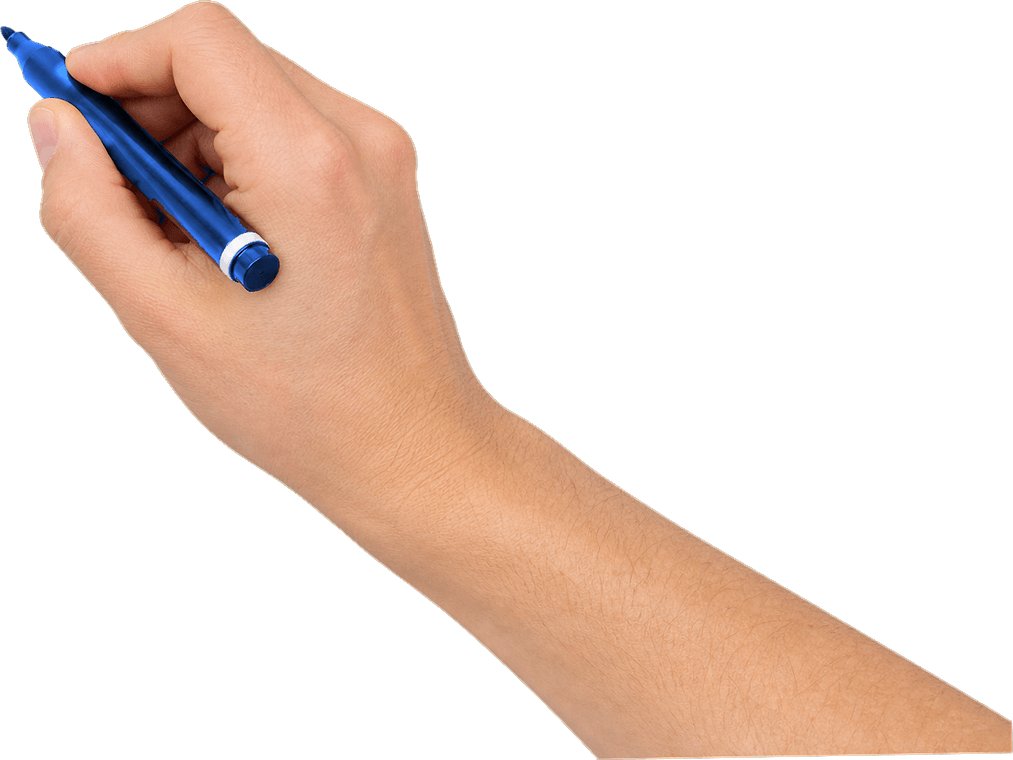
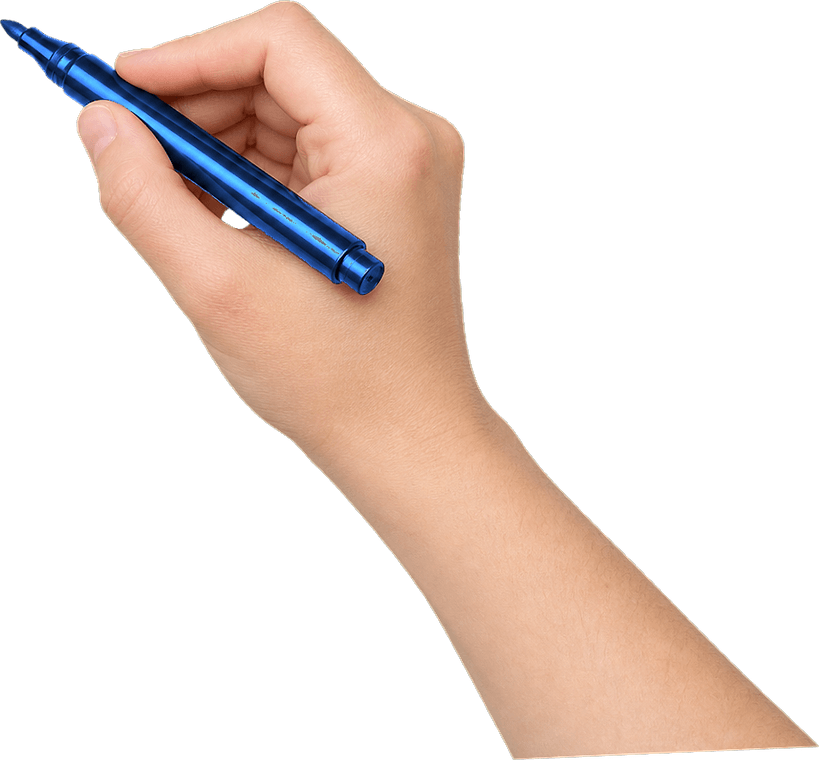
أصول اليد: ثلاث أيادٍ للماركر (افتراضية/فاتحة/بأكمام) بُعد handTone
- لوحتان مصوّرتان جديدتان: marker-pale (بشرة فاتحة) و marker-sleeve (يد بأكمام
  داكنة)، تُبنيان بنفس خط الأنابيب (chroma key → trim → دوران قياسي → قياس نقطة
  العمل) فتبقى الأصول متبادلة تمامًا.
- handTone في WhiteboardSpec + handKeyFor/handAssetFor في المانيفست المُولَّد:
  التوليفات بلا لوحة ترجع إلى لوحة الأداة، والممحاة لا تُستبدل أبدًا.
- الإطار صار يحمل المفتاح المحلول (HandFrame.asset) و plateFor يُرجعه للطبقة —
  لا تخمين في العرض.
- قائمة اختيار ثانية في AnimationDock + حفظ/تحميل للخيار مع رفض القيم المجهولة.
- إصلاح أداة المراجعة: ارتفاع ورقة الأصول كان مثبَّتًا على صفّين فيسقط أي أصل جديد.
- الاختبارات 744 (كانت 719): §14 للتنويعات والرجوع إلى اللوحة الأصلية وround-trip.

diff --git a/src/animation/hand.ts b/src/animation/hand.ts
@@ -23,9 +23,10 @@
  */
 
 import type { ElementBaseInfo } from './engine'
-import { handAsset, handDrawHeight } from './handAssets'
+import { handAsset, handDrawHeight, handKeyFor } from './handAssets'
 import { INK_LEAD, NIB_AHEAD_PX } from './types'
 import { glyphInkFraction } from './glyphClusters'
+import type { HandAssetKey } from './handAssets'
 import type { AnimSpec, WhiteboardHandSide, WhiteboardHandStyle } from './types'
 
 /** Which asset the overlay should draw. */
@@ -40,10 +41,21 @@ export interface HandFrame {
   /** 1 = the asset's authored size; smaller when the ink is smaller than the rig was designed for */
   scale: number
   opacity: number
-  style: WhiteboardHandStyle
+  /** the exact plate to draw: tool × skin tone (resolved once, in computeHandFrame) */
+  asset: HandAssetKey
   side: WhiteboardHandSide
   pressing: boolean
   pose: HandPose
+}
+
+/**
+ * Which plate the overlay must draw for a frame. The tool × skin tone is already resolved on the
+ * frame; the pose overrides it (the flat palm is always the palm plate) and an eraser always wins.
+ */
+export function plateFor(f: HandFrame): HandAssetKey {
+  if (f.asset === 'eraser') return 'eraser'
+  if (f.pose === 'palm') return 'palm'
+  return f.asset
 }
 
 /** The height the hand rig is authored at (design px) — the reference for `scale`. */
@@ -92,7 +104,7 @@ const DEFAULT_FRAME: HandFrame = {
   angle: 0,
   scale: 1,
   opacity: 0,
-  style: 'marker-dark',
+  asset: 'marker-dark',
   side: 'right',
   pressing: false,
   pose: 'pen',
@@ -171,6 +183,8 @@ export function computeHandFrame(spec: AnimSpec, el: ElementBaseInfo, localT: nu
   if (!wb || wb.effect === 'stroke') return null
 
   const style: WhiteboardHandStyle = wb.handStyle ?? (wb.effect === 'erase' ? 'eraser' : 'marker-dark')
+  // resolve the plate once (tool × skin tone) and let every pose carry it
+  const asset = handKeyFor(style, wb.handTone ?? 'default')
   const side: WhiteboardHandSide = wb.handSide ?? 'right'
   const duration = Math.max(200, spec.duration)
   const isRight = side === 'right'
@@ -192,7 +206,7 @@ export function computeHandFrame(spec: AnimSpec, el: ElementBaseInfo, localT: nu
     const fromY = el.y + el.h + 150
     const x = start.x + (fromX - start.x) * (1 - eased)
     const y = start.y + (fromY - start.y) * (1 - eased)
-    return frame({ x, y, angle: (isRight ? -6 : 6) * (1 - eased), opacity: Math.pow(eased, 0.8), style, side, pressing: false, pose })
+    return frame({ x, y, angle: (isRight ? -6 : 6) * (1 - eased), opacity: Math.pow(eased, 0.8), asset, side, pressing: false, pose })
   }
 
   /* --------------------------------------------------------------- active */
@@ -202,10 +216,10 @@ export function computeHandFrame(spec: AnimSpec, el: ElementBaseInfo, localT: nu
     if (wb.effect === 'draw') {
       if (spec.text) {
         if (ctx.units?.length && ctx.stream) {
-          return streamFrame(style, side, pose, localT, ctx.units, ctx.stream, ctx.rtl ?? el.rtl === true)
+          return streamFrame(asset, side, pose, localT, ctx.units, ctx.stream, ctx.rtl ?? el.rtl === true)
         }
         const units = ctx.units?.length ? ctx.units : estimatedUnits(spec, el, ctx.stagger)
-        return textFrame(spec, style, side, pose, localT, units, ctx.stagger, ctx.rtl ?? el.rtl)
+        return textFrame(spec, asset, side, pose, localT, units, ctx.stagger, ctx.rtl ?? el.rtl)
       }
 
       // The ink edge is the element's own reveal; when the engine did not hand us one
@@ -232,7 +246,7 @@ export function computeHandFrame(spec: AnimSpec, el: ElementBaseInfo, localT: nu
       const x = el.x + padX + xNorm * wSpan + tremor(t, 0.4)
       const y = lineY - lift + tremor(t, 2.1) + (drawing ? Math.sin(inBand * Math.PI) * 1.5 : 0)
       const angle = wristTilt(speedX, 0) + tremor(t, 5.3) * 0.6
-      return frame({ x, y, angle, opacity: 1, style, side, pressing: drawing, pose })
+      return frame({ x, y, angle, opacity: 1, asset, side, pressing: drawing, pose })
     }
 
     if (wb.effect === 'push') {
@@ -246,7 +260,7 @@ export function computeHandFrame(spec: AnimSpec, el: ElementBaseInfo, localT: nu
           y: palmRest.y + (1 - a) * 40,
           angle: (isRight ? 8 : -8) * (1 - a),
           opacity: Math.pow(a, 0.7),
-          style,
+          asset,
           side,
           pressing: false,
           pose,
@@ -261,7 +275,7 @@ export function computeHandFrame(spec: AnimSpec, el: ElementBaseInfo, localT: nu
           y: palmRest.y + Math.sin(q * Math.PI) * 4 + tremor(t, 3.3),
           angle: (isRight ? -4 : 4) * q + tremor(t, 7.1) * 0.5,
           opacity: 1,
-          style,
+          asset,
           side,
           pressing: true,
           pose,
@@ -273,7 +287,7 @@ export function computeHandFrame(spec: AnimSpec, el: ElementBaseInfo, localT: nu
         y: palmRest.y + f * 26,
         angle: (isRight ? -6 : 6) * (1 - f),
         opacity: 1 - Math.pow(f, 2) * 0.55,
-        style,
+        asset,
         side,
         pressing: f < 0.4,
         pose,
@@ -293,7 +307,7 @@ export function computeHandFrame(spec: AnimSpec, el: ElementBaseInfo, localT: nu
         y: lineY + tremor(t, 4.4) * 1.4,
         angle: scrub * 4 + tremor(t, 6.6) * 0.5,
         opacity: 1,
-        style: 'eraser',
+        asset: 'eraser',
         side,
         pressing: true,
         pose: 'eraser',
@@ -311,7 +325,7 @@ export function computeHandFrame(spec: AnimSpec, el: ElementBaseInfo, localT: nu
       y: l.y + out * 170 - Math.sin(clamp(e * 3, 0, 1) * Math.PI * 0.5) * 18,
       angle: (isRight ? -8 : 8) * (1 - out * 0.4),
       opacity: 1 - Math.pow(clamp((e - 0.55) / 0.45, 0, 1), 2),
-      style,
+      asset,
       side,
       pressing: false,
       pose,
@@ -333,7 +347,7 @@ export function computeHandFrame(spec: AnimSpec, el: ElementBaseInfo, localT: nu
  * Writing and travelling share the same clock, so the nib rides the ink edge the whole way.
  */
 function streamFrame(
-  style: WhiteboardHandStyle,
+  asset: HandAssetKey,
   side: WhiteboardHandSide,
   pose: HandPose,
   localT: number,
@@ -407,7 +421,7 @@ function streamFrame(
     angle: wristTilt(dir * 0.9, 0) + tremor(t, 8.2) * 0.7,
     scale: scaleForText(units[i]?.h ?? units[units.length - 1]?.h),
     opacity: 1,
-    style,
+    asset,
     side,
     pressing: !travel,
     pose,
@@ -416,7 +430,7 @@ function streamFrame(
 
 function textFrame(
   spec: AnimSpec,
-  style: WhiteboardHandStyle,
+  asset: HandAssetKey,
   side: WhiteboardHandSide,
   pose: HandPose,
   localT: number,
@@ -464,7 +478,7 @@ function textFrame(
     angle: wristTilt(dir * 0.8, 0) + tremor(t, 8.2) * 0.7,
     scale: scaleForText(units[Math.min(i, units.length - 1)]?.h),
     opacity: 1,
-    style,
+    asset,
     side,
     pressing: true,
     pose,
@@ -527,7 +541,7 @@ function frame(f: Omit<HandFrame, 'active' | 'scale'> & { active?: boolean; scal
     angle: Math.round(f.angle * 100) / 100,
     scale: f.scale ?? 1,
     opacity: Math.round(clamp(f.opacity, 0, 1) * 1000) / 1000,
-    style: f.style,
+    asset: f.asset,
     side: f.side,
     pressing: f.pressing,
     pose: f.pose,

diff --git a/src/animation/handAssets.ts b/src/animation/handAssets.ts
@@ -22,7 +22,9 @@ export interface HandAsset {
 
 export const HAND_ASSETS: Record<string, HandAsset> = {
   'marker-dark': { src: '/hands/marker-dark.png', natW: 954, natH: 760, ax: 1, ay: 2, designH: 340 },
-  'marker-blue': { src: '/hands/marker-blue.png', natW: 1013, natH: 760, ax: 1, ay: 27, designH: 340 },
+  'marker-pale': { src: '/hands/marker-pale.png', natW: 819, natH: 760, ax: 1, ay: 20, designH: 340 },
+  'marker-sleeve': { src: '/hands/marker-sleeve.png', natW: 876, natH: 760, ax: 3, ay: 26, designH: 340 },
+  'marker-blue': { src: '/hands/marker-blue.png', natW: 819, natH: 760, ax: 1, ay: 20, designH: 340 },
   'pencil': { src: '/hands/pencil.png', natW: 926, natH: 760, ax: 0, ay: 0, designH: 340 },
   'chalk': { src: '/hands/chalk.png', natW: 957, natH: 760, ax: 10, ay: 4, designH: 330 },
   'eraser': { src: '/hands/eraser.png', natW: 760, natH: 629, ax: 353, ay: 628, designW: 430 },
@@ -30,10 +32,27 @@ export const HAND_ASSETS: Record<string, HandAsset> = {
 }
 
 /** Copy from the surveyed engines: one main hand, one off hand (docs/WHITEBOARD_HAND.md §2). */
-export type HandAssetKey = 'marker-dark' | 'marker-blue' | 'pencil' | 'chalk' | 'eraser' | 'palm'
+export type HandAssetKey = 'marker-dark' | 'marker-blue' | 'marker-pale' | 'marker-sleeve' | 'pencil' | 'chalk' | 'eraser' | 'palm'
 
 export function handAsset(key: HandAssetKey): HandAsset {
   return HAND_ASSETS[key] ?? HAND_ASSETS['marker-dark']
+}
+
+/** Hand variants that only change who is holding the tool (skin tone / sleeve). */
+export type HandTone = 'default' | 'pale' | 'sleeve'
+const TONE_KEYS: Record<HandTone, Partial<Record<HandAssetKey, HandAssetKey>>> = {
+  default: {},
+  // only the marker is photographed in other tones; every other tool falls back to its plate
+  pale: { 'marker-dark': 'marker-pale' },
+  sleeve: { 'marker-dark': 'marker-sleeve' },
+}
+
+export function handKeyFor(key: HandAssetKey, tone: HandTone = 'default'): HandAssetKey {
+  return TONE_KEYS[tone]?.[key] ?? key
+}
+
+export function handAssetFor(key: HandAssetKey, tone: HandTone = 'default'): HandAsset {
+  return handAsset(handKeyFor(key, tone))
 }
 
 /** Design-space width of an asset once drawn. */

diff --git a/src/animation/HandOverlay.tsx b/src/animation/HandOverlay.tsx
@@ -13,24 +13,13 @@
  * (docs/WHITEBOARD_HAND.md §2).
  */
 import { memo, useEffect, useState } from 'react'
-import { getHandFrame, subscribeHandFrame, type HandFrame } from './hand'
+import { getHandFrame, plateFor, subscribeHandFrame, type HandFrame } from './hand'
 import { handAsset, handDrawHeight, handDrawWidth, type HandAssetKey } from './handAssets'
-import type { WhiteboardHandStyle } from './types'
 
 /**
  * Which photo to show. `style` picks the tool; the pose (pen vs flat palm) decides between
  * the pen grips and the bare palm used for the "push" effect, and an eraser always wins.
  */
-function assetKey(f: HandFrame): HandAssetKey {
-  const tool: WhiteboardHandStyle = f.style
-  if (tool === 'eraser') return 'eraser'
-  if (f.pose === 'palm') return 'palm'
-  if (tool === 'pencil') return 'pencil'
-  if (tool === 'chalk') return 'chalk'
-  if (tool === 'marker-blue') return 'marker-blue'
-  return 'marker-dark'
-}
-
 /** The ink a tool leaves at the working point, or null when it leaves none (eraser). */
 function inkDot(key: HandAssetKey): string | null {
   switch (key) {
@@ -56,7 +45,7 @@ export const HandOverlay = memo(function HandOverlay({ slideId }: { slideId?: st
 
   if (!frame.active || frame.opacity <= 0.01) return null
 
-  const key = assetKey(frame)
+  const key = plateFor(frame)
   const asset = handAsset(key)
   const w = handDrawWidth(asset)
   const h = handDrawHeight(asset)

diff --git a/src/editor/anim/AnimationDock.tsx b/src/editor/anim/AnimationDock.tsx
@@ -813,6 +813,22 @@ export function AnimationDock() {
                         <option value="eraser">🧽 ممحاة سبورة (Eraser)</option>
                       </select>
                     </label>
+                    <label className="block">
+                      <span className="mb-1 block text-[10.5px] text-ink-300">يد الكتابة (لون البشرة / الأكمام)</span>
+                      <select
+                        value={selAnim.whiteboard.handTone ?? 'default'}
+                        onChange={(e) =>
+                          mutateAnim(selAnim.id, (a) => {
+                            if (a.whiteboard) a.whiteboard.handTone = e.target.value as any
+                          }, 'تغيير يد الوايت بورد')
+                        }
+                        className="w-full rounded-md border border-ink-700 bg-ink-950 px-2 py-1 text-[11.5px] text-ink-100 outline-none"
+                      >
+                        <option value="default">✋ اليد الافتراضية (Default)</option>
+                        <option value="pale">🤍 بشرة فاتحة (Light skin)</option>
+                        <option value="sleeve">👔 يد بأكمام داكنة (Sleeve)</option>
+                      </select>
+                    </label>
 
                     <div className="grid grid-cols-2 gap-1.5">
                       <label className="block">

diff --git a/tests/animations/entry.ts b/tests/animations/entry.ts
@@ -11,6 +11,6 @@ export { useDoc } from '../../src/store/useDoc'
 export { createShape, createText } from '../../src/document/factory'
 export { isEngineDriving, subscribeEngineDriving, stopPreview, setStudioOpen, previewOnCanvas } from '../../src/editor/anim/preview'
 export { animRegistry } from '../../src/editor/anim/registry'
-export { subscribeHandFrame, getHandFrame, clearHandFrame, computeHandFrame, HAND_ENTRY_MS, HAND_EXIT_MS } from '../../src/animation/hand'
-export { HAND_ASSETS, handAsset, handDrawWidth, handDrawHeight } from '../../src/animation/handAssets'
+export { subscribeHandFrame, getHandFrame, clearHandFrame, computeHandFrame, plateFor, HAND_ENTRY_MS, HAND_EXIT_MS } from '../../src/animation/hand'
+export { HAND_ASSETS, handAsset, handAssetFor, handKeyFor, handDrawWidth, handDrawHeight } from '../../src/animation/handAssets'
 export { clusterWidthsMeasured, clearClusterCache, canvasFontOf, glyphInkFraction } from '../../src/animation/glyphClusters'

diff --git a/src/animation/types.ts b/src/animation/types.ts
@@ -102,11 +102,14 @@ export type AnimKind = 'entrance' | 'exit' | 'emphasis' | 'motion' | 'reveal' | 
 
 export type WhiteboardEffect = 'draw' | 'push' | 'erase' | 'stroke'
 export type WhiteboardHandStyle = 'marker-dark' | 'marker-blue' | 'pencil' | 'chalk' | 'eraser'
+/** Who holds the tool: the photographed hand varies, the tool does not. */
+export type WhiteboardHandTone = 'default' | 'pale' | 'sleeve'
 export type WhiteboardHandSide = 'right' | 'left'
 
 export interface WhiteboardSpec {
   effect: WhiteboardEffect
   handStyle?: WhiteboardHandStyle
+  handTone?: WhiteboardHandTone
   handSide?: WhiteboardHandSide
 }
 

diff --git a/src/animation/serialize.ts b/src/animation/serialize.ts
@@ -70,6 +70,7 @@ function sanitizeAnim(v: unknown): AnimSpec | null {
     spec.whiteboard = {
       effect: (a.whiteboard as any).effect,
       handStyle: ['marker-dark', 'marker-blue', 'pencil', 'chalk', 'eraser'].includes((a.whiteboard as any).handStyle) ? (a.whiteboard as any).handStyle : 'marker-dark',
+      handTone: ['default', 'pale', 'sleeve'].includes((a.whiteboard as any).handTone) ? (a.whiteboard as any).handTone : 'default',
       handSide: (a.whiteboard as any).handSide === 'left' ? 'left' : 'right',
     }
   }

diff --git a/ANIMATION_ARCHITECTURE.md b/ANIMATION_ARCHITECTURE.md
@@ -441,5 +441,5 @@ interface Slide { …, animations?: AnimSpec[] }
 
 - نموذج/محرك: `animation/{types,presets,engine,schedule,morph,easing,path,serialize,migrate,hand,HandOverlay}.ts`.
 - واجهة: `editor/anim/{AnimationLibrary,AnimationDock,EasingEditor,preview,library,registry,perf}.tsx?` + زر «حركة» عائم على التحديد في `SelectionOverlay` + تبويب «حركة» في `RightPanel` + Morph في تبويب الانتقال.
-- **اختبار حقيقي يمنع الأزرار الميتة:** `npm run test:anim` (`tests/animations/`) — يبني كل تأثير عبر المحرك داخل jsdom ويؤكد تغيّر DOM (transform/opacity/filter/clip)، إضافةً للجدولة وMorph وJSON وتتبع يد الوايت بورد (التصاق السنّ بحدّ الحبر، اتجاه الكتابة RTL/LTR، صور اليد ومطابقتها للمانيفست) ودورة المتجر الكاملة، إضافةً إلى حبر النصّ (بريسِت الرسم على نصّ = كتابة لا مسح كتلة، والعربية بحبر متّصل يزحف داخل الكلمة واليد على الحدّ) وحبر الكتل المتّصلة (حدود الحروف + منحنى سرعة القلم + السنّ السابق للحبر، مقيسًا مقابل `--kad-tx` الحيّ وإطار اليد الذي يبثّه المحرّك). **719 تحققًا، 0 فشل.**
+- **اختبار حقيقي يمنع الأزرار الميتة:** `npm run test:anim` (`tests/animations/`) — يبني كل تأثير عبر المحرك داخل jsdom ويؤكد تغيّر DOM (transform/opacity/filter/clip)، إضافةً للجدولة وMorph وJSON وتتبع يد الوايت بورد (التصاق السنّ بحدّ الحبر، اتجاه الكتابة RTL/LTR، صور اليد ومطابقتها للمانيفست) ودورة المتجر الكاملة، إضافةً إلى حبر النصّ (بريسِت الرسم على نصّ = كتابة لا مسح كتلة، والعربية بحبر متّصل يزحف داخل الكلمة واليد على الحدّ) وحبر الكتل المتّصلة (حدود الحروف + منحنى سرعة القلم + السنّ السابق للحبر، مقيسًا مقابل `--kad-tx` الحيّ وإطار اليد الذي يبثّه المحرّك). **744 تحققًا، 0 فشل.**
 - **يد الوايت بورد:** أُعيد بناؤها كاملًا (يد مصوّرة + نقطة التصاق معلنة + حركة مشتقّة من `clip` ومن مواضع النص المقيسة)، وبريسِتات الرسم تتحوّل تلقائيًا إلى **حبر نصّي** عند تطبيقها على نصّ (المحرك لا يكتب `clip-path` على نصّ) — البحث والقرارات في [`docs/WHITEBOARD_HAND.md`](./docs/WHITEBOARD_HAND.md).
